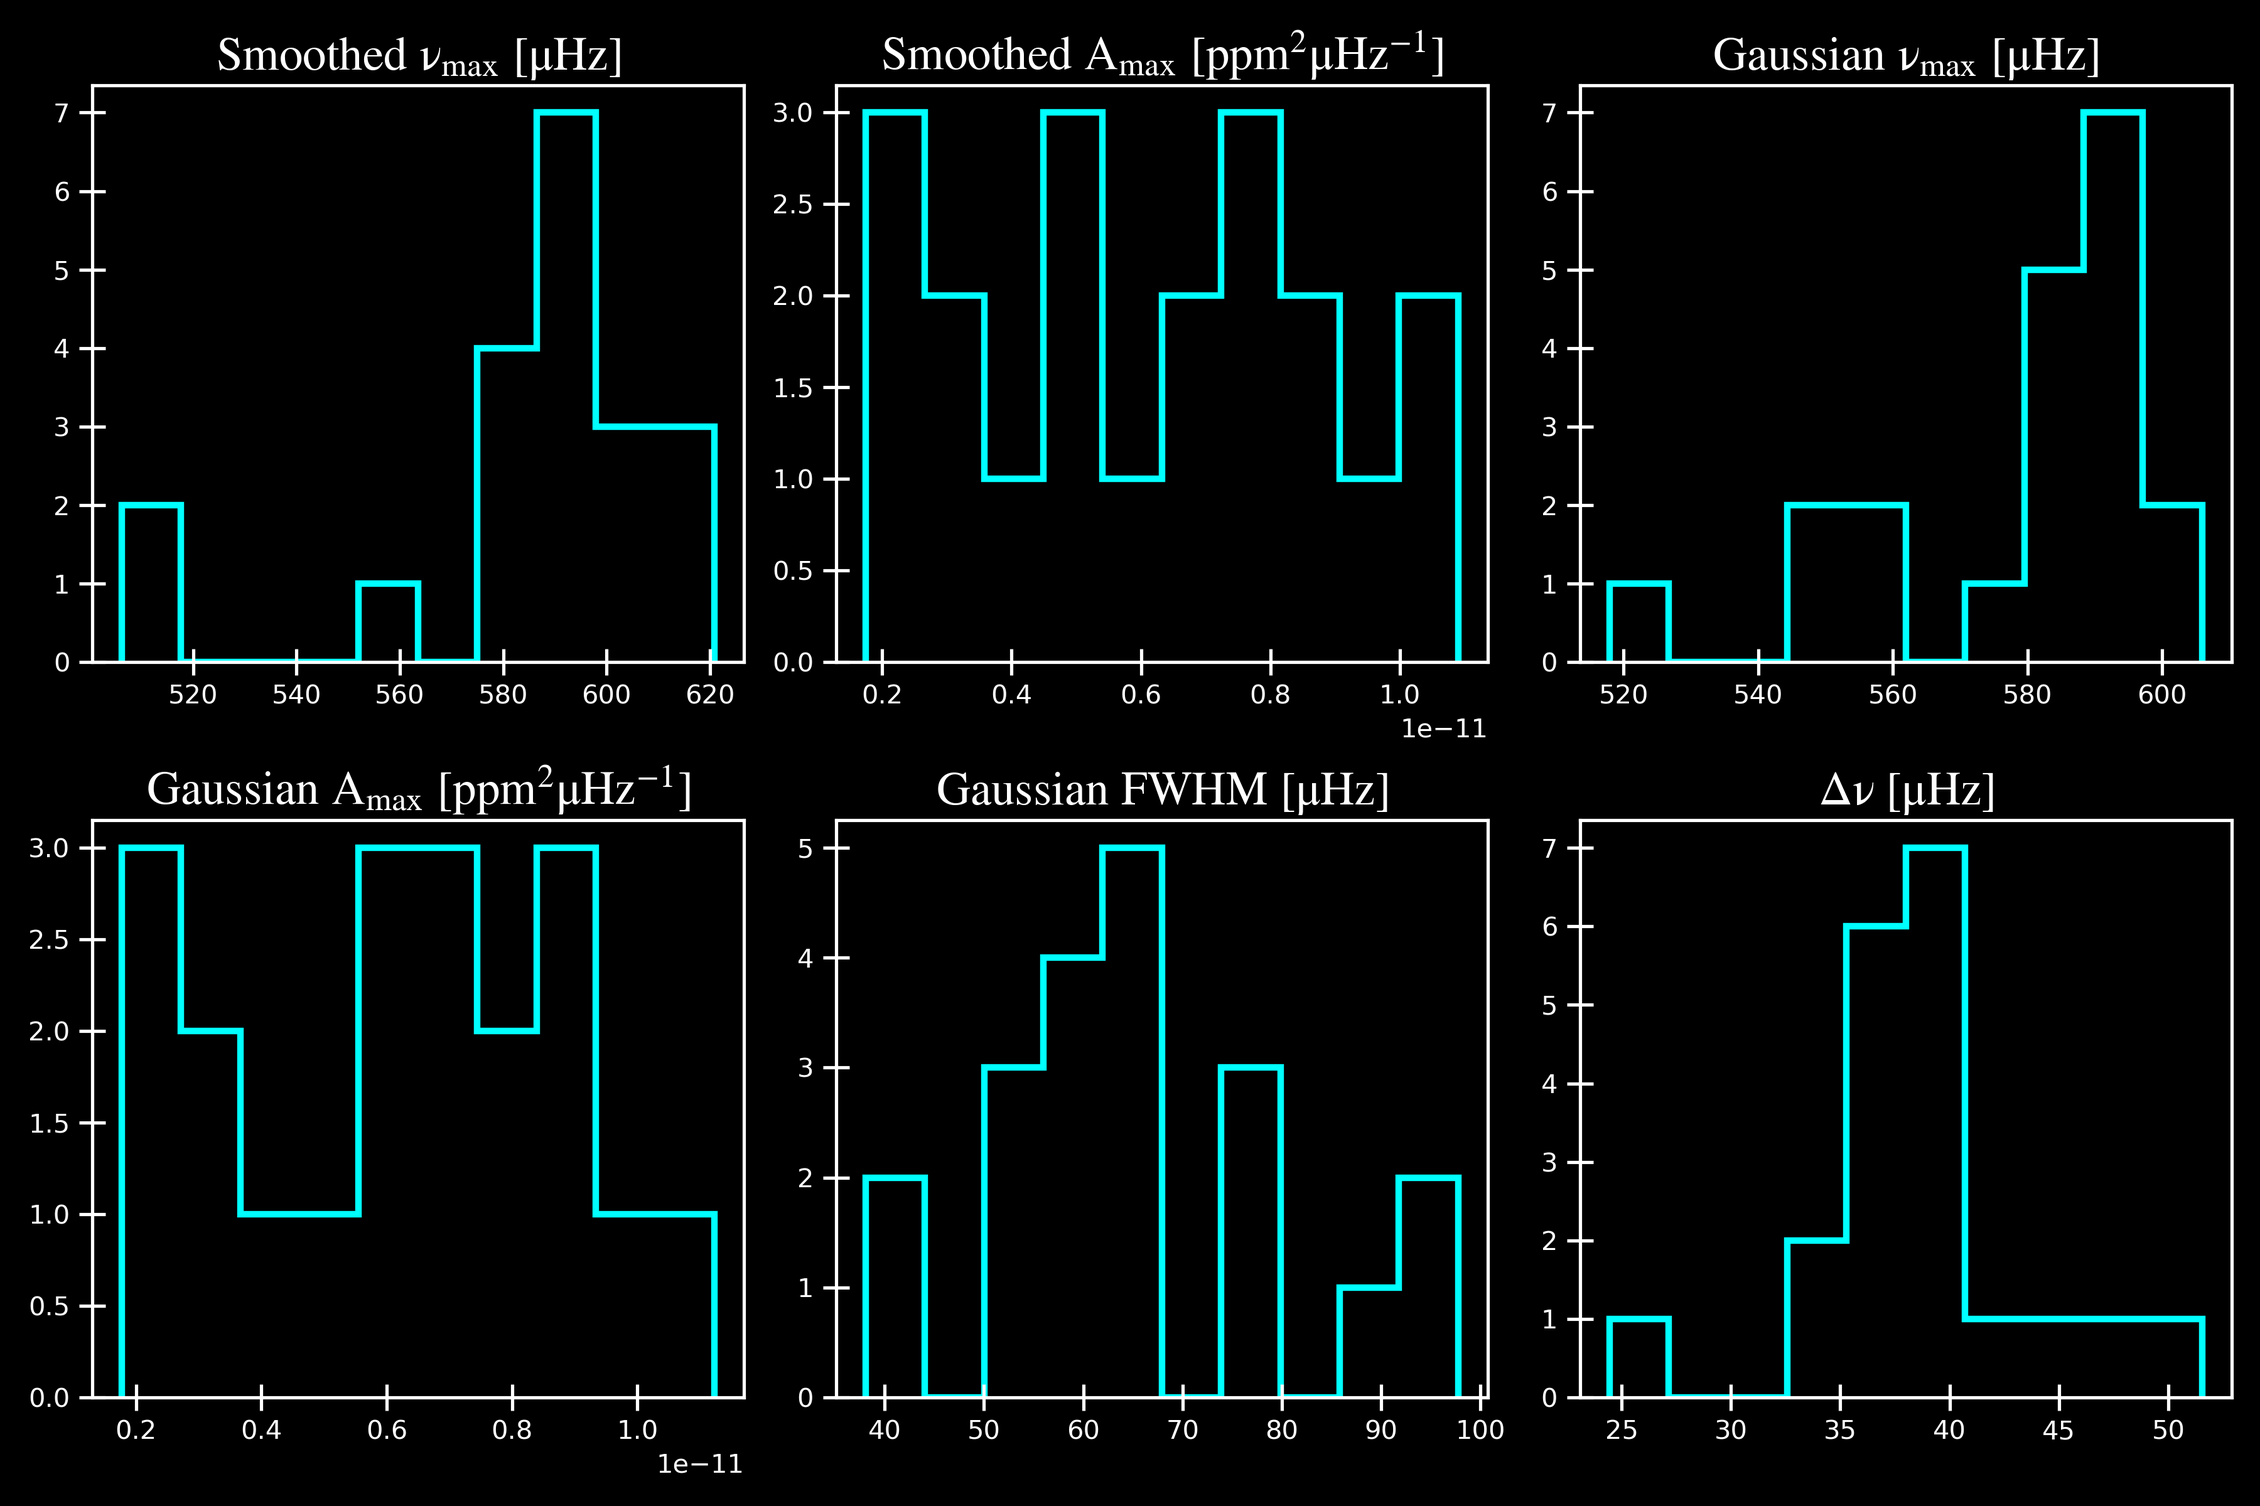
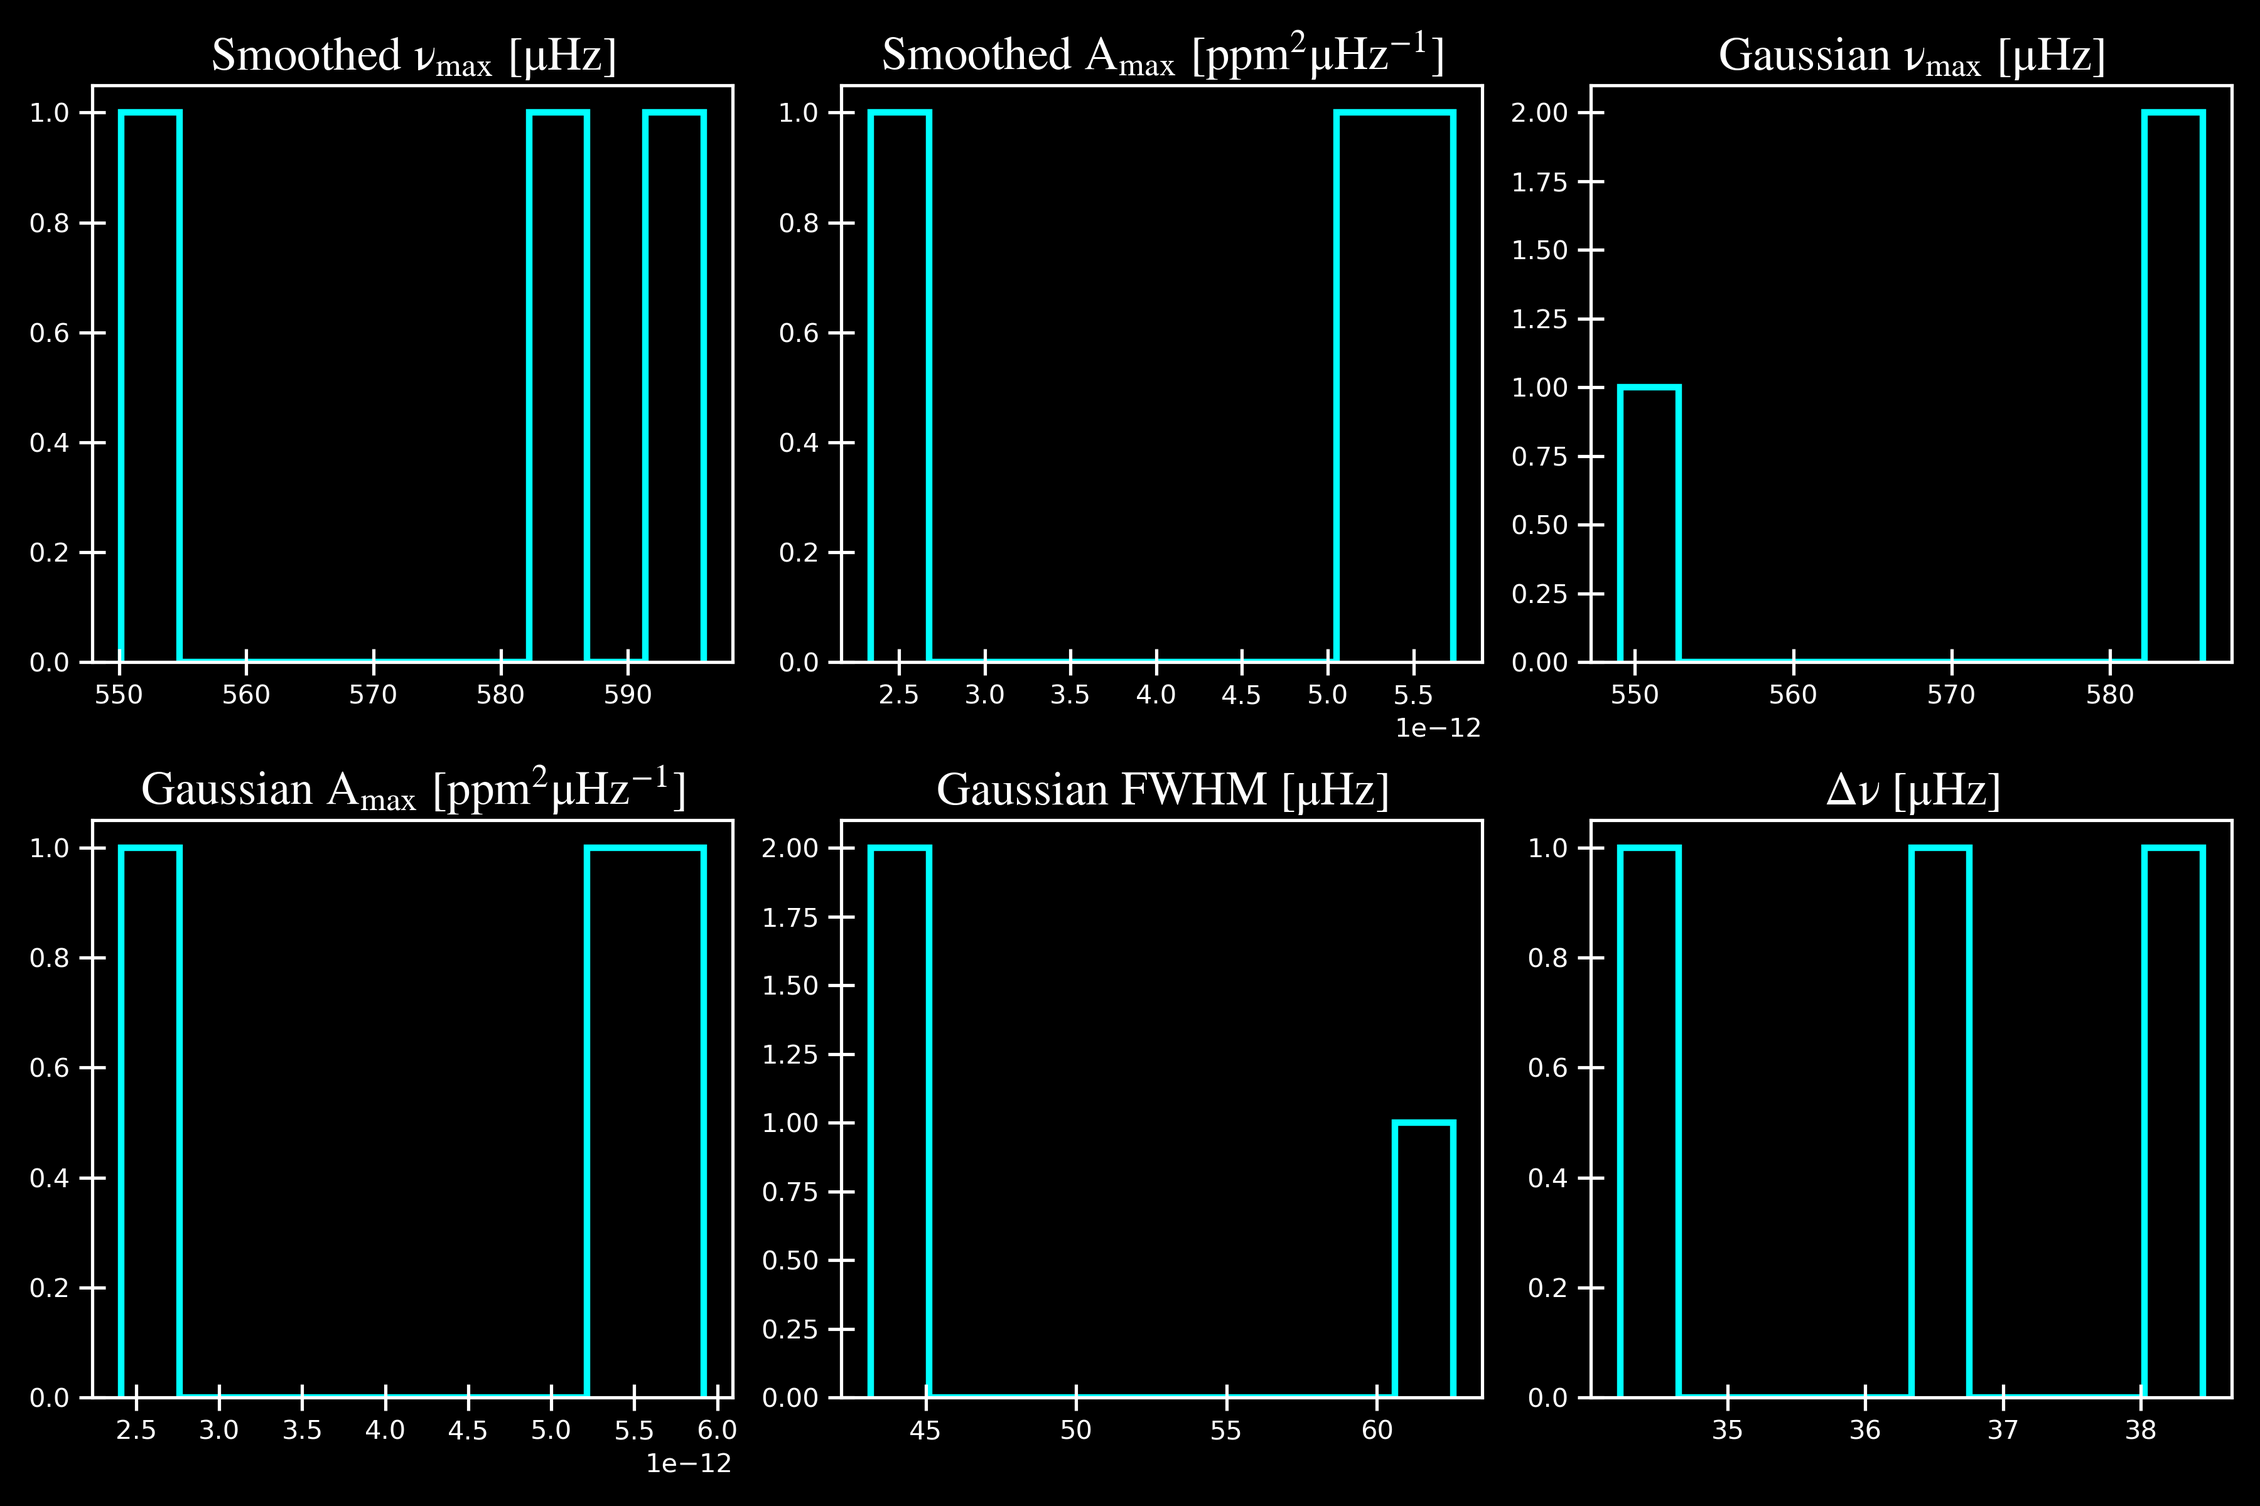
Took out final pars

diff --git a/fit_background.py b/fit_background.py
@@ -46,7 +46,7 @@ class FitBackground:
             save: bool = True,
             verbose: bool = False,
             show_plots: bool = False,
-            num_mc_iter: int = 20,
+            num_mc_iter: int = 3,
             lower: float = 10.0,
             upper: float = None,
             box_filter: float = 1.0,
@@ -388,7 +388,6 @@ class FitBackground:
         # Monte-Carlo sampling
         mc_iteration = 0
         while mc_iteration < self.num_mc_iter:
-            print(f"{self.target}: MC iteration = {mc_iteration}")
             # Second iteration or later
             if mc_iteration > 0:
                 # Randomize power spectrum to get uncertainty on measured values
@@ -457,8 +456,8 @@ class FitBackground:
                         bounds[0][z] = -np.inf
                         bounds[1][z] = np.inf
                     # Last law is bounded in an interval 0.2 wide centered around the estimated noise level
-                    bounds[0][-1] = harvey_parameters[-1] - 0.1
-                    bounds[1][-1] = harvey_parameters[-1] + 0.1
+                    bounds[0][-1] = harvey_parameters[-1] - 0.01
+                    bounds[1][-1] = harvey_parameters[-1] + 0.01
                     bounds_list.append(tuple(bounds))
 
                 reduced_chi2 = []
@@ -531,7 +530,14 @@ class FitBackground:
                     # Replace parameters with the best model's fitted parameters
                     self.fitted_harvey_parameters = fitted_parameters_list[model]
                     best_bounds = bounds_list[self.num_laws - 1]
-                    final_pars = np.zeros((self.num_mc_iter, 2*self.num_laws + 12))
+                    # Final parameters
+                    harvey_parameters_list = np.zeros((self.num_mc_iter, 2*self.num_laws + 1))
+                    smooth_numax_list = np.zeros(self.num_mc_iter)
+                    smooth_amp_list = np.zeros(self.num_mc_iter)
+                    gaussian_numax_list = np.zeros(self.num_mc_iter)
+                    gaussian_amp_list = np.zeros(self.num_mc_iter)
+                    gaussian_fwhm_list = np.zeros(self.num_mc_iter)
+                    deltanu_list = np.zeros(self.num_mc_iter)
 
                     # Lower bound is 1.0
                     sm_par = max(4.0*(self.numax / NUMAX_SUN)**0.2, 1.0)
@@ -573,7 +579,7 @@ class FitBackground:
                 print("Retrying...")
                 continue
 
-            final_pars[mc_iteration, 0:2*self.num_laws + 1] = harvey_parameters
+            harvey_parameters_list[mc_iteration, :] = harvey_parameters
 
             fwhm = sm_par * self.dnu / self.resolution
             # Standard deviation
@@ -614,40 +620,27 @@ class FitBackground:
             region_power = pssm_bgcorr[self.mask]
             # Index of maximum power i.e. numax estimation
             idx = self.return_max(region_power, index=True)
-            final_pars[mc_iteration, 2*self.num_laws + 1] = region_frequency[idx]
-            final_pars[mc_iteration, 2*self.num_laws + 2] = region_power[idx]
+            smooth_numax_list[mc_iteration] = region_frequency[idx]
+            smooth_amp_list[mc_iteration] = region_power[idx]
 
             if list(region_frequency) != []:
-                numax_gaussian_bounds = self.gaussian_bounds(region_frequency, region_power)
+                # numax_gaussian_bounds = self.gaussian_bounds(region_frequency, region_power)
                 initial_vars = [
                     0.0,
                     max(region_power),
                     region_frequency[idx],
                     (max(region_frequency) - min(region_frequency))/8.0/np.sqrt(8.0*np.log(2.0))
                 ]
-                while True:
-                    try:
-                        # Fit Gaussian to the background corrected power envelope to find numax
-                        numax_gaussian_parameters, _cv = curve_fit(
-                            gaussian,
-                            region_frequency,
-                            region_power,
-                            p0=initial_vars,
-                            # bounds=numax_gaussian_bounds
-                        )
-                        break
-                    except ValueError:
-                        print("Updating numax Gaussian's parameters bounds...")
-                        numax_gaussian_bounds[0][0] -= 0.1
-                        numax_gaussian_bounds[0][1] -= 0.1
-                        numax_gaussian_bounds[0][2] -= 0.1
-                        numax_gaussian_bounds[1][0] += 0.1
-                        numax_gaussian_bounds[1][1] += 0.1
-                        numax_gaussian_bounds[1][2] += 0.1
+                numax_gaussian_parameters, _cv = curve_fit(
+                    gaussian,
+                    region_frequency,
+                    region_power,
+                    p0=initial_vars,
+                )
                 offset, amplitude, center, width = numax_gaussian_parameters
-                final_pars[mc_iteration, 2*self.num_laws + 3] = center
-                final_pars[mc_iteration, 2*self.num_laws + 4] = amplitude
-                final_pars[mc_iteration, 2*self.num_laws + 5] = width
+                gaussian_numax_list[mc_iteration] = center
+                gaussian_amp_list[mc_iteration] = amplitude
+                gaussian_fwhm_list[mc_iteration] = width
 
             # Background correction
             self.bg_corr = random_power / background_model
@@ -709,7 +702,7 @@ class FitBackground:
                 self.dnu = zoom_lag[idx]
 
             self.get_ridges(mc_iteration)
-            final_pars[mc_iteration, 2*self.num_laws + 6] = self.dnu
+            deltanu_list[mc_iteration] = self.dnu
 
             if mc_iteration == 0 and not again:
                 self.pssm = pssm
@@ -732,61 +725,70 @@ class FitBackground:
 
         if self.num_mc_iter > 1:
             if self.flags["verbose"]:
-                print(f"numax (smoothed): {final_pars[0, 2*self.num_laws + 1]:.2f} +/- {mad_std(final_pars[:, 2*self.num_laws + 1]):.2f} muHz")
-                print(f"maxamp (smoothed): {final_pars[0, 2*self.num_laws + 2]:.2f} +/- {mad_std(final_pars[:, 2*self.num_laws + 2]):.2f} ppm^2/muHz")
-                print(f"numax (gaussian): {final_pars[0, 2*self.num_laws + 3]:.2f} +/- {mad_std(final_pars[:, 2*self.num_laws + 3]):.2f} muHz")
-                print(f"maxamp (gaussian): {final_pars[0, 2*self.num_laws + 4]:.2f} +/- {mad_std(final_pars[:, 2*self.num_laws + 4]):.2f} ppm^2/muHz")
-                print(f"fwhm (gaussian): {final_pars[0, 2*self.num_laws + 5]:.2f} +/- {mad_std(final_pars[:, 2*self.num_laws + 5]):.2f} muHz")
-                print(f"dnu: {final_pars[0, 2*self.num_laws + 6]:.2f} +/- {mad_std(final_pars[:, 2*self.num_laws + 6]):.2f} muHz")
+                print(f"numax (smoothed): {smooth_numax_list[0]:.2f} +/- {mad_std(smooth_numax_list):.2f} muHz")
+                print(f"maxamp (smoothed): {smooth_amp_list[0]:.2f} +/- {mad_std(smooth_amp_list):.2f} ppm^2/muHz")
+                print(f"numax (gaussian): {gaussian_numax_list[0]:.2f} +/- {mad_std(gaussian_numax_list):.2f} muHz")
+                print(f"maxamp (gaussian): {gaussian_amp_list[0]:.2f} +/- {mad_std(gaussian_amp_list):.2f} ppm^2/muHz")
+                print(f"fwhm (gaussian): {gaussian_fwhm_list[0]:.2f} +/- {mad_std(gaussian_fwhm_list):.2f} muHz")
+                print(f"dnu: {deltanu_list[0]:.2f} +/- {mad_std(deltanu_list):.2f} muHz")
                 print("-------------------------------------------------\n")
 
             results.append(
                 [
                     self.target,
-                    final_pars[0, 2*self.num_laws + 1],
-                    mad_std(final_pars[:, 2*self.num_laws + 1]),
-                    final_pars[0, 2*self.num_laws + 2],
-                    mad_std(final_pars[:, 2*self.num_laws + 2]),
-                    final_pars[0, 2*self.num_laws + 3],
-                    mad_std(final_pars[:, 2*self.num_laws + 3]),
-                    final_pars[0, 2*self.num_laws + 4],
-                    mad_std(final_pars[:, 2*self.num_laws + 4]),
-                    final_pars[0, 2*self.num_laws + 5],
-                    mad_std(final_pars[:, 2*self.num_laws + 5]),
-                    final_pars[0, 2*self.num_laws + 6],
-                    mad_std(final_pars[:, 2*self.num_laws + 6])
+                    smooth_numax_list[0],
+                    mad_std(smooth_numax_list),
+                    smooth_amp_list[0],
+                    mad_std(smooth_amp_list),
+                    gaussian_numax_list[0],
+                    mad_std(gaussian_numax_list),
+                    gaussian_amp_list[0],
+                    mad_std(gaussian_amp_list),
+                    gaussian_fwhm_list[0],
+                    mad_std(gaussian_fwhm_list),
+                    deltanu_list[0],
+                    mad_std(deltanu_list)
                 ]
             )
 
-            self.plot_mc(final_pars)
+            self.plot_mc(
+                [
+                    smooth_numax_list,
+                    smooth_amp_list,
+                    gaussian_numax_list,
+                    gaussian_amp_list,
+                    gaussian_fwhm_list,
+                    deltanu_list
+                ]
+            )
 
         else:
             if again:
                 results.append([self.target, np.nan, np.nan, np.nan, np.nan, np.nan, np.nan, np.nan, np.nan, np.nan, np.nan])
             else:
                 if self.flags["verbose"]:
-                    print(f"numax (smoothed): {final_pars[0, 2*self.num_laws + 1]:.2f} muHz")
-                    print(f"maxamp (smoothed): {final_pars[0, 2*self.num_laws + 2]:.2f} ppm^2/muHz")
-                    print(f"numax (gaussian): {final_pars[0, 2*self.num_laws + 3]:.2f} muHz")
-                    print(f"maxamp (gaussian): {final_pars[0, 2*self.num_laws + 4]:.2f} ppm^2/muHz")
-                    print(f"fwhm (gaussian): {final_pars[0, 2*self.num_laws + 5]:.2f} muHz")
-                    print(f"dnu: {final_pars[0, 2*self.num_laws + 6]:.2f} muHz")
+                    print(f"numax (smoothed): {smooth_numax_list[0]:.2f} muHz")
+                    print(f"maxamp (smoothed): {smooth_amp_list[0]:.2f} ppm^2/muHz")
+                    print(f"numax (gaussian): {gaussian_numax_list[0]:.2f} muHz")
+                    print(f"maxamp (gaussian): {gaussian_amp_list[0]:.2f} ppm^2/muHz")
+                    print(f"fwhm (gaussian): {gaussian_fwhm_list[0]:.2f} muHz")
+                    print(f"dnu: {deltanu_list[0]:.2f} muHz")
                     print("-------------------------------------------------\n")
 
                 results.append(
                     [
                         self.target,
-                        final_pars[0, 2*self.num_laws + 1],
+                        smooth_numax_list[0],
                         0.0,
-                        final_pars[0, 2*self.num_laws + 2],
+                        smooth_amp_list[0],
                         0.0,
-                        final_pars[0, 2*self.num_laws + 3],
+                        gaussian_numax_list[0],
                         0.0,
-                        final_pars[0, 2*self.num_laws + 4],
+                        gaussian_amp_list[0],
                         0.0,
-                        final_pars[0, 2*self.num_laws + 5],
+                        gaussian_fwhm_list[0],
                         0.0,
-                        final_pars[0, 2*self.num_laws + 6],
+                        deltanu_list[0],
                         0.0
                     ]
                 )
@@ -929,13 +931,7 @@ class FitBackground:
         idx = self.return_max(self.region_power, index=True)
         ax4.plot([self.region_frequency[idx]], [self.region_power[idx]], color="red", marker="s", markersize=7.5, zorder=0)
         ax4.axvline([self.region_frequency[idx]], color="white", linestyle="--", linewidth=1.5, zorder=0)
-        gaus = gaussian(
-            self.region_frequency,
-            self.numax_gaussian_parameters[0],
-            self.numax_gaussian_parameters[1],
-            self.numax_gaussian_parameters[2],
-            self.numax_gaussian_parameters[3]
-        )
+        gaus = gaussian(self.region_frequency, *self.numax_gaussian_parameters)
         plot_min = 0.0
         if min(self.region_power) < plot_min:
             plot_min = min(self.region_power)
@@ -991,13 +987,7 @@ class FitBackground:
         )
 
         # dnu fit
-        fit = gaussian(
-            self.zoom_lag,
-            self.dnu_gaussian_parameters[0],
-            self.dnu_gaussian_parameters[1],
-            self.dnu_gaussian_parameters[2],
-            self.dnu_gaussian_parameters[3]
-        )
+        fit = gaussian(self.zoom_lag, *self.dnu_gaussian_parameters)
         idx = self.return_max(fit, index=True)
         plot_lower = min(self.zoom_auto)
         if min(fit) < plot_lower:
@@ -1064,9 +1054,15 @@ class FitBackground:
             plt.show()
         plt.close()
 
-    def plot_mc(self, final_pars):
+    def plot_mc(self, mc_data: list) -> None:
         """
-        Plots Markov-Chain/Monte-Carlo simulation.
+        Plots Markov-Chain Monte-Carlo simulation.
+
+        Parameters
+        ----------
+        mc_data : list
+            list of Monte-Carlo simulation data containing smooth numax, smooth amplitude, Gaussian numax, Gaussian amplitude,
+            Gaussian FWHM and deltanu.
         """
 
         plt.figure(figsize=(12, 8))
@@ -1078,11 +1074,11 @@ class FitBackground:
             r"$\rm Gaussian \,\, A_{max} \,\, [ppm^{2} \mu Hz^{-1}]$",
             r"$\rm Gaussian \,\, FWHM \,\, [\mu Hz]$",
             r"$\rm \Delta\nu \,\, [\mu Hz]$"
-            ]
+        ]
 
         for i in range(6):
             ax = plt.subplot(2, 3, i+1)
-            ax.hist(final_pars[:, 2*self.num_laws + (i+1)], color="cyan", histtype="step", lw=2.5, facecolor="0.75")
+            ax.hist(mc_data[i], color="cyan", histtype="step", lw=2.5, facecolor="0.75")
             ax.set_title(titles[i])
 
         plt.tight_layout()
@@ -1365,6 +1361,7 @@ class FitBackground:
             "dnu",
             "dnu_err"
         ]
+
         astropy.io.ascii.write(
             np.array(results),
             f"{self.path}{self.target}_globalpars.csv",
